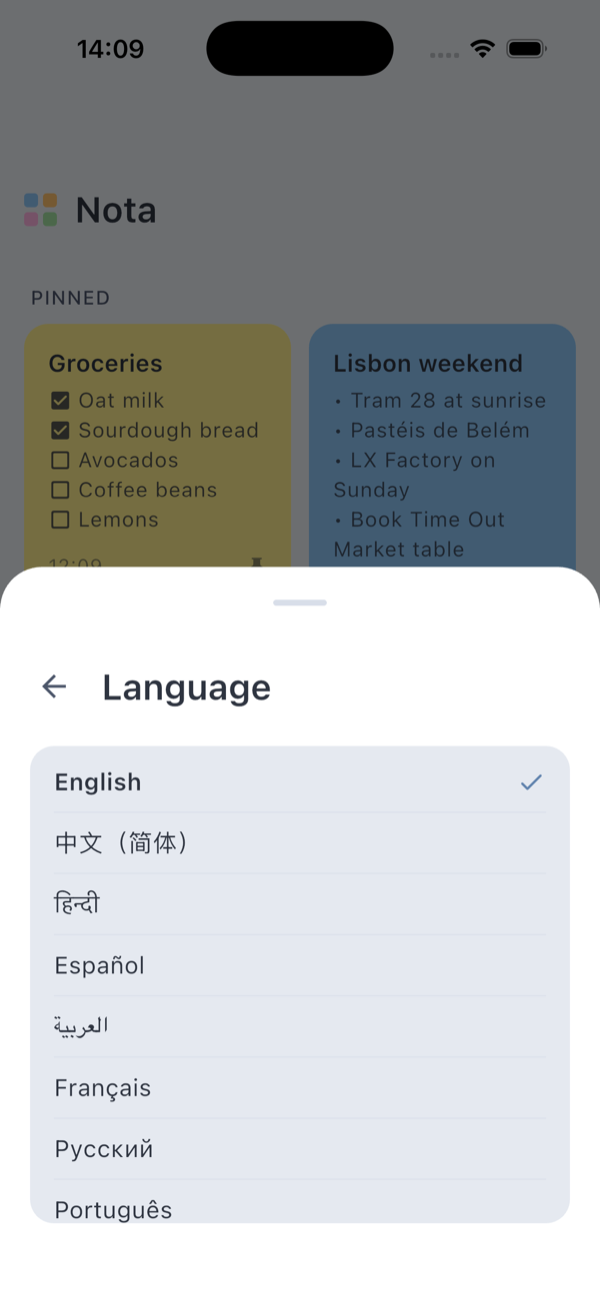
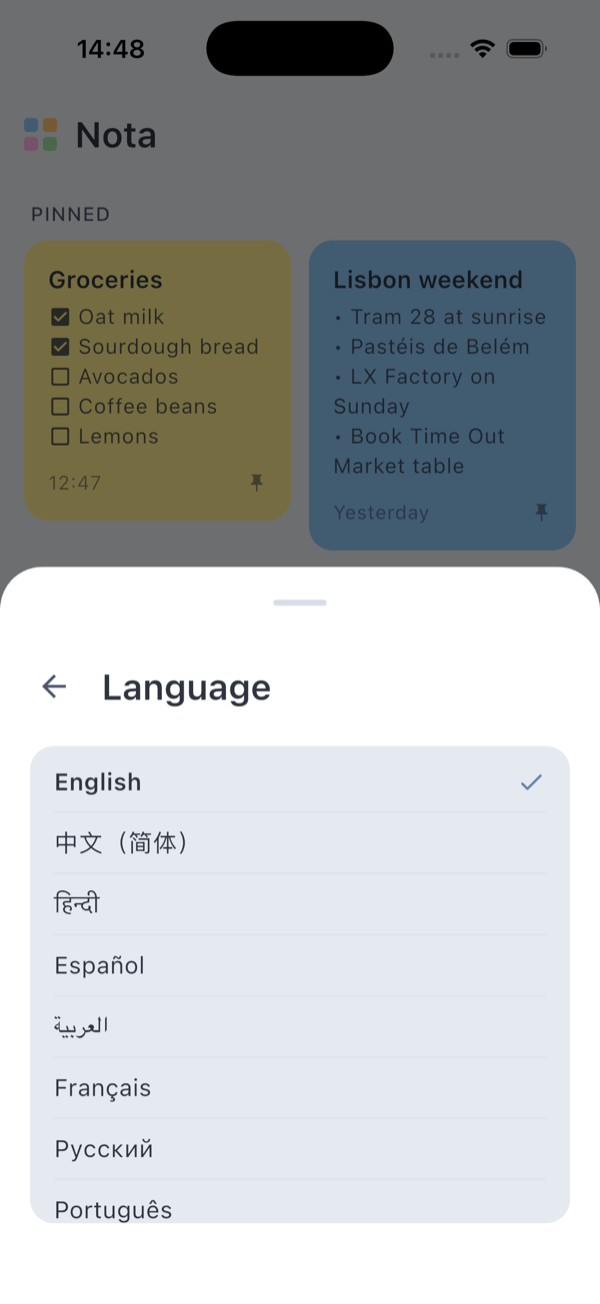
Compact note list header: single pinned row instead of medium app bar
SliverAppBar.medium reserved an empty 64 px toolbar row above the title
because the list has no leading button or actions; the title now lives in a
standard 56 px pinned bar, giving the content ~60 px more vertical space.

Also: screenshot tour clears stale handshake files and the watcher re-resolves
the simulator app container after reinstalls; README screenshots refreshed.

Changed region(s): [[0.03, 0.092, 0.96, 0.4601], [0.12, 0.092, 0.27, 0.1227], [0.18, 0.0307, 0.24, 0.0613]]

diff --git a/integration_test/screenshot_tour_test.dart b/integration_test/screenshot_tour_test.dart
@@ -47,11 +47,13 @@ Future<void> _snap(
     await _snap(binding, name);
     return;
   }
-  final dir = Directory('${Directory.systemTemp.path}/nota_shots')
-    ..createSync(recursive: true);
-  File('${dir.path}/$name.req').writeAsStringSync('');
+  final dir = _handshakeDir..createSync(recursive: true);
   final ack = File('${dir.path}/$name.ack');
-  final deadline = DateTime.now().add(const Duration(seconds: 20));
+  // A stale ack from an earlier run would let us continue before the watcher
+  // has captured the frame.
+  if (ack.existsSync()) ack.deleteSync();
+  File('${dir.path}/$name.req').writeAsStringSync('');
+  final deadline = DateTime.now().add(const Duration(seconds: 8));
   while (!ack.existsSync()) {
     if (DateTime.now().isAfter(deadline)) {
       debugPrint('screenshot "$name": no watcher answered, skipping');
@@ -68,10 +70,15 @@ const _driverAttached = bool.fromEnvironment(
   defaultValue: false,
 );
 
+final _handshakeDir = Directory('${Directory.systemTemp.path}/nota_shots');
+
 void main() {
   final binding = IntegrationTestWidgetsFlutterBinding.ensureInitialized();
 
   testWidgets('screenshot tour', (tester) async {
+    // Drop requests/acks left behind by an interrupted run.
+    if (_handshakeDir.existsSync()) _handshakeDir.deleteSync(recursive: true);
+
     final logger = createAppLogger();
     final result = await composeDependencies(
       config: const ApplicationConfig(),

diff --git a/packages/features/note_list/lib/src/note_list_screen.dart b/packages/features/note_list/lib/src/note_list_screen.dart
@@ -220,7 +220,11 @@ class _NoteListScaffold extends StatelessWidget {
                 keyboardDismissBehavior:
                     ScrollViewKeyboardDismissBehavior.onDrag,
                 slivers: [
-                  SliverAppBar.medium(
+                  // A single 56 px pinned row: a medium/large app bar would
+                  // reserve an empty toolbar row above the title because this
+                  // screen has no leading button or actions.
+                  SliverAppBar(
+                    pinned: true,
                     title: const _AppTitle(),
                     scrolledUnderElevation: 3,
                     shadowColor: Colors.black.withValues(alpha: 0.18),

diff --git a/packages/features/note_list/test/note_list_view_test.dart b/packages/features/note_list/test/note_list_view_test.dart
@@ -349,8 +349,7 @@ void main() {
       await tester.tap(find.byIcon(Icons.close));
       await tester.pumpAndSettle();
 
-      // SliverAppBar.medium keeps a collapsed and an expanded title widget.
-      expect(find.text('Nota'), findsWidgets);
+      expect(find.text('Nota'), findsOneWidget);
       expect(find.byIcon(Icons.add), findsOneWidget);
     });
 
